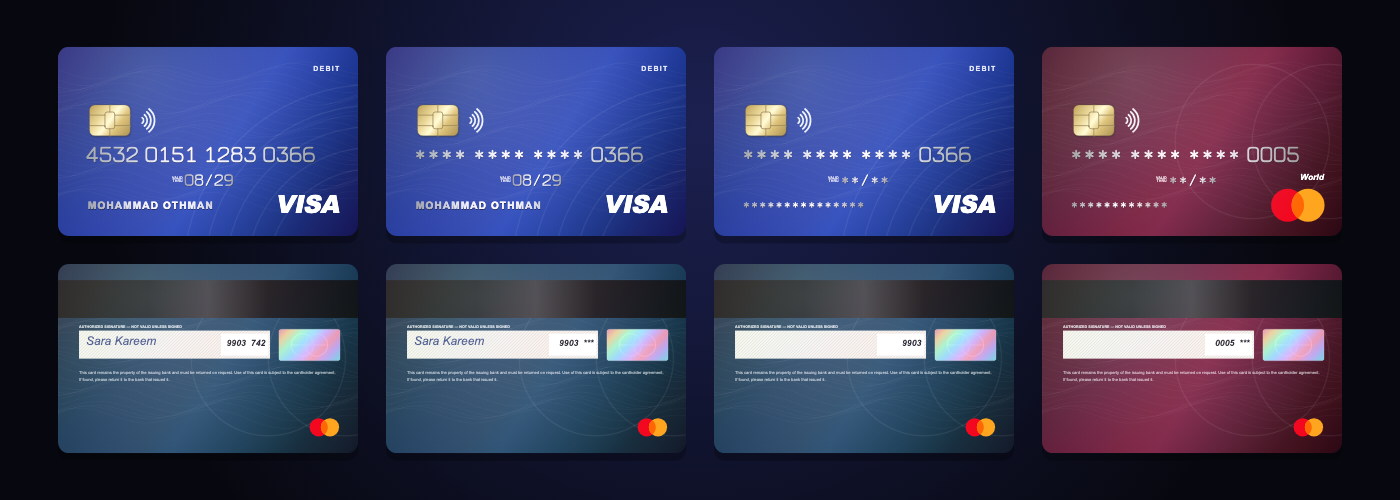
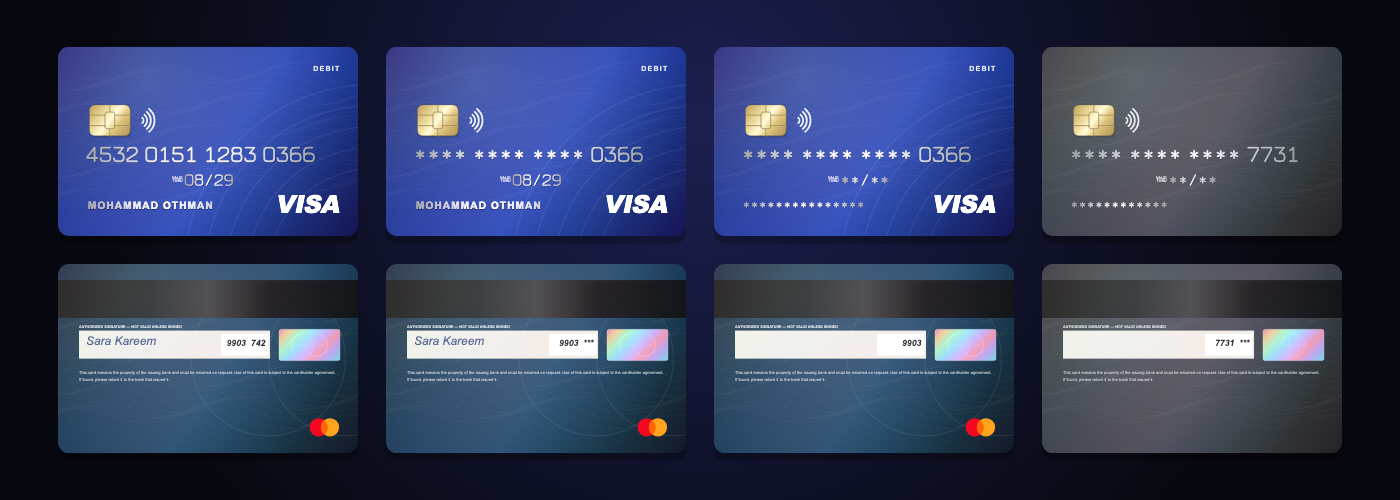
Show messy api data in the example and readme
The wallet now has a last4-only record and a broken one, and the readme
lists what each kind of bad input turns into.

Changed region(s): [[0.7371, 0.09, 0.9829, 0.48], [0.7371, 0.63, 0.9829, 0.93], [0.7371, 0.51, 0.9829, 0.57]]

diff --git a/example/lib/main.dart b/example/lib/main.dart
@@ -40,6 +40,10 @@ const api = [
   },
   {'number': '4024007163053426', 'holder': 'Zaid Mahmoud', 'expiry': '01/31', 'tier': 'signature'},
   {'last4': '0005', 'brand': 'mastercard', 'tier': 'world'},
+  {'last4': '7731'},
+  {
+    'data': {'CardNumber': '**** 9921', 'Exp': '13/99', 'holder_name': 'null'},
+  },
 ];
 
 Stream<Offset>? deviceTilt() {
@@ -67,7 +71,7 @@ const _text = {
     'cvv': 'CVV',
     'back': 'Back',
     'replay': 'Replay',
-    'walletHint': 'Six cards from a mixed API response, the last one only has last4. Tap one.',
+    'walletHint': 'Cards from a messy API response: no brand, no name, a broken expiry. Nothing crashes. Tap one.',
     'save': 'Save card',
     'saved': 'Saved',
     'glass': 'Glass',
@@ -84,7 +88,7 @@ const _text = {
     'cvv': 'رمز الأمان',
     'back': 'الوجه الخلفي',
     'replay': 'إعادة',
-    'walletHint': 'ست بطاقات من استجابة API مختلطة، الأخيرة فيها آخر ٤ أرقام فقط. انقر على واحدة.',
+    'walletHint': 'بطاقات من استجابة API فوضوية: بدون نوع، بدون اسم، تاريخ خاطئ. لا شيء ينهار. انقر على واحدة.',
     'save': 'حفظ البطاقة',
     'saved': 'تم الحفظ',
     'glass': 'زجاجي',
@@ -306,7 +310,7 @@ class WalletPage extends StatefulWidget {
 }
 
 class _WalletPageState extends State<WalletPage> {
-  final cards = [for (final json in api) ?BankCard.tryFromJson(json)];
+  final cards = [for (final json in api) BankCard.fromJson(json)];
   int? picked;
 
   @override
@@ -326,7 +330,11 @@ class _WalletPageState extends State<WalletPage> {
           child: Text(
             card == null
                 ? ' '
-                : [card.brand!.label, '•••• ${card.last4}', if (card.expiry.isNotEmpty) card.expiry].join(' · '),
+                : [
+                    card.brand?.label ?? 'Card',
+                    '•••• ${card.last4}',
+                    if (card.expiry.isNotEmpty) card.expiry,
+                  ].join(' · '),
             key: ValueKey(picked),
             textAlign: TextAlign.center,
             style: const TextStyle(fontWeight: FontWeight.w600),
@@ -366,7 +374,7 @@ class _AddPageState extends State<AddPage> {
     if (!form.currentState!.validate()) return;
     ScaffoldMessenger.of(
       context,
-    ).showSnackBar(SnackBar(content: Text('${widget.t['saved']!} · ${card!.brand!.label} •••• ${card!.last4}')));
+    ).showSnackBar(SnackBar(content: Text('${widget.t['saved']!} · ${card!.brand?.label ?? ''} •••• ${card!.last4}')));
   }
 
   @override

diff --git a/example/test/widget_test.dart b/example/test/widget_test.dart
@@ -4,8 +4,8 @@ import 'package:flutter/material.dart';
 import 'package:flutter_test/flutter_test.dart';
 
 void main() {
-  test('every record in the fake api parses', () {
-    expect([for (final json in api) BankCard.tryFromJson(json)], everyElement(isNotNull));
+  test('every record in the fake api turns into a card', () {
+    expect([for (final json in api) BankCard.fromJson(json).last4], everyElement(hasLength(4)));
   });
 
   testWidgets('demo opens on all three tabs and in arabic', (tester) async {

diff --git a/README.md b/README.md
@@ -36,8 +36,8 @@
 - **A minting animation** — the card flies in, the chip drops into place, every digit is stamped one by one, the logo pops and a light sweeps across.
 - **Every tier, in its own material** — Visa Classic, Gold, Platinum, Signature, Infinite; Mastercard Standard, Gold, Platinum, World, World Elite. Plastic, brushed foil and spun black metal, each catching light as it turns.
 - **Two looks** — `CardLook.photoreal` (embossed digits, EMV chip, magstripe, hologram) and `CardLook.glass` (frosted glass over drifting light).
-- **Reads your API** — `BankCard.tryFromJson` understands `card_number`, `pan`, `masked_pan`, Stripe's `{brand, last4, exp_month}`, nested `card` objects, `08/29`, `2029-08`, Arabic digits…
-- **Null-safe display** — anything the backend didn't send is drawn as `*` stars, so a record with only `last4` still looks like a whole card.
+- **Reads your API, however broken** — `BankCard.fromJson` never throws and never returns null: any key spelling or nesting, Stripe's `{brand, last4, exp_month}`, a bare `"4242"`, a raw JSON string, `13/99` expiries, `"null"` names, Arabic digits…
+- **Null-safe display** — anything the backend didn't send is drawn as `*` stars. No brand? You get a neutral card instead of nothing.
 - **You choose what shows** — full number, last 4, masked or hidden; holder, expiry and CVV shown, masked or hidden; chip, contactless, tier and DEBIT/CREDIT labels on or off.
 - **Wallet stack** — many cards stacked like a phone wallet; they deal in, tap one to pull it out.
 - **Live entry form** — the card fills in as the user types, the brand morphs in, the card flips over for the CVV. Luhn, length and expiry validation built in.
@@ -77,12 +77,10 @@ That's all. The brand is detected from the number, the material from the tier. `
 
 ## Straight from your API
 
-Backends spell cards a hundred ways. `tryFromJson` reads the common ones and returns `null` — never throws — when a record has no usable number or isn't Visa/Mastercard.
+`BankCard.fromJson` takes whatever your backend sends and **always gives you a card** — it never throws and never returns `null`. Whatever is missing or broken is drawn as stars.
 
 ```dart
-final cards = [
-  for (final json in response['cards']) ?BankCard.tryFromJson(json),
-];
+final cards = [for (final json in response['cards']) BankCard.fromJson(json)];
 
 BankCardWallet(cards: cards)
 ```
@@ -90,23 +88,37 @@ BankCardWallet(cards: cards)
 All of these work:
 
 ```dart
-{'card_number': '4532015112830366', 'holder_name': 'Mohammad Othman', 'expiry': '08/29', 'scheme': 'VISA', 'product': 'Infinite'}
-{'masked_pan': '542523******9903', 'cardholder_name': 'SARA KAREEM', 'exp_month': 11, 'exp_year': 2028, 'level': 'world_elite'}
+{'card_number': '4532015112830366', 'holder_name': 'Mohammad Othman', 'expiry': '08/29', 'scheme': 'VISA'}
+{'masked_pan': '542523******9903', 'cardholder_name': 'SARA KAREEM', 'exp_month': 11, 'exp_year': 2028}
 {'card': {'brand': 'visa', 'last4': '4242', 'exp_month': 3, 'exp_year': 2030, 'funding': 'debit'}}   // Stripe
-{'pan': '2223003122003222', 'name': 'Noor Al-Huda', 'expiry_date': '2027-06', 'network': 'MasterCard'}
-{'last4': '0005', 'brand': 'mastercard'}                                                             // just last4
+{'data': {'payment_method': {'card': {'Brand': 'VISA_DEBIT', 'LAST4': '4242'}}}}                    // nested, any case
+{'last4': '7731'}                                                                                    // only last4, no brand
+'4242'                                                                                               // just a string
 ```
 
-| Field | Keys it looks for |
-| --- | --- |
-| number | `number` `card_number` `pan` `masked_pan` `masked_number` `card_no` — or `last4` (+ `bin` / `first6`) |
-| holder | `holder_name` `cardholder_name` `card_holder` `name_on_card` `holder` `name` |
-| expiry | `expiry` `expiry_date` `exp` `expires` `valid_thru` — or `exp_month` + `exp_year` |
-| brand | `brand` `scheme` `network` `card_brand` `type` — or detected from the number |
-| tier | `tier` `level` `product` `category` |
-| kind | `funding` `card_type` `kind` `type` |
+### When the backend gets it wrong
 
-`toJson()` writes it back as snake_case and **never includes the CVV**.
+| The API sends | The card shows |
+| --- | --- |
+| only `last4`, no brand | a neutral graphite card, `**** **** **** 7731`, no logo |
+| no holder name, or `"null"`, `"N/A"`, `"-"` | `************` |
+| no expiry, `13/99`, `soon`, year `1850` | `**/**` |
+| `last4: 42` as a number (zeros lost) | `0042` |
+| `card_number: "4242"` (really the last four) | `**** **** **** 4242`, brand not guessed from it |
+| brand inside another field (`product: "Visa Platinum"`, `card_type: "MASTERCARD"`) | the right logo and tier |
+| Amex, Discover, Maestro… | a neutral card — only Visa and Mastercard get a logo |
+| `null`, `[]`, `"garbage"`, a raw JSON string | a fully starred card / the parsed card — never a crash |
+
+Keys are matched in any case and spelling (`card_number`, `CardNumber`, `CARD-NUMBER`), at any nesting depth — but a `bank: {name: …}` is never mistaken for the holder.
+
+Building it yourself from just the last four:
+
+```dart
+BankCard.lastFour('4242')                          // brand unknown → neutral card
+BankCard.lastFour('4242', brand: CardBrand.visa)   // when you do know it
+```
+
+Need to drop records that have no number at all? `BankCard.tryFromJson(json)` returns `null` for those. `toJson()` writes a card back as snake_case and **never includes the CVV**.
 
 ---
 
@@ -135,7 +147,7 @@ BankCard3D(
 
 Ready-made: `CardDisplay()` (last four, CVV masked — the default), `CardDisplay.private` (last four only, nothing personal), `CardDisplay.everything` (all in the clear — what the form uses).
 
-**Missing data never breaks the card.** No holder name? No expiry? Only `last4`? Those spots are drawn as stars instead of leaving holes.
+**Missing data never breaks the card.** No holder name? No expiry? Only `last4`, no brand? Those spots are drawn as stars instead of leaving holes.
 
 ---
 
@@ -277,10 +289,10 @@ flutter pub add bank_card_3d
 
 ### من الـ API مباشرة
 
-`tryFromJson` تقرأ أغلب أشكال البيانات (`card_number` و `masked_pan` و `last4` و `exp_month` …) وتُرجع `null` بدل أن ترمي استثناء.
+`fromJson` تقرأ أي شكل يرسله الخادم (`card_number` و `masked_pan` و `last4` و `exp_month` …) ولا ترمي استثناء ولا تُرجع `null` أبداً. إذا أرسل الخادم آخر ٤ أرقام فقط بدون نوع البطاقة، تظهر بطاقة محايدة بدون شعار والباقي نجوم.
 
 ```dart
-final cards = [for (final json in response['cards']) ?BankCard.tryFromJson(json)];
+final cards = [for (final json in response['cards']) BankCard.fromJson(json)];
 BankCardWallet(cards: cards)
 ```
 

diff --git a/CHANGELOG.md b/CHANGELOG.md
@@ -6,7 +6,8 @@ First release.
 - Minting intro: chip drops in, digits stamped one by one, logo pop, light sweep.
 - Visa Classic, Gold, Platinum, Signature, Infinite and Mastercard Standard, Gold, Platinum, World, World Elite, each in its own material.
 - Two looks: photoreal and glass.
-- `BankCard.tryFromJson` for whatever shape your backend sends, Stripe included.
+- `BankCard.fromJson` reads whatever your backend sends and never fails: any key spelling or nesting, raw strings, broken dates. No brand gives a neutral card.
+- `BankCard.lastFour` for APIs that only send the last four digits.
 - `CardDisplay`: show, mask or hide each field. Missing data is drawn as stars.
 - `BankCardWallet`: stacked wallet with deal-in and pull-out.
 - `BankCardForm`: live entry form with brand detection, CVV flip and validation.
